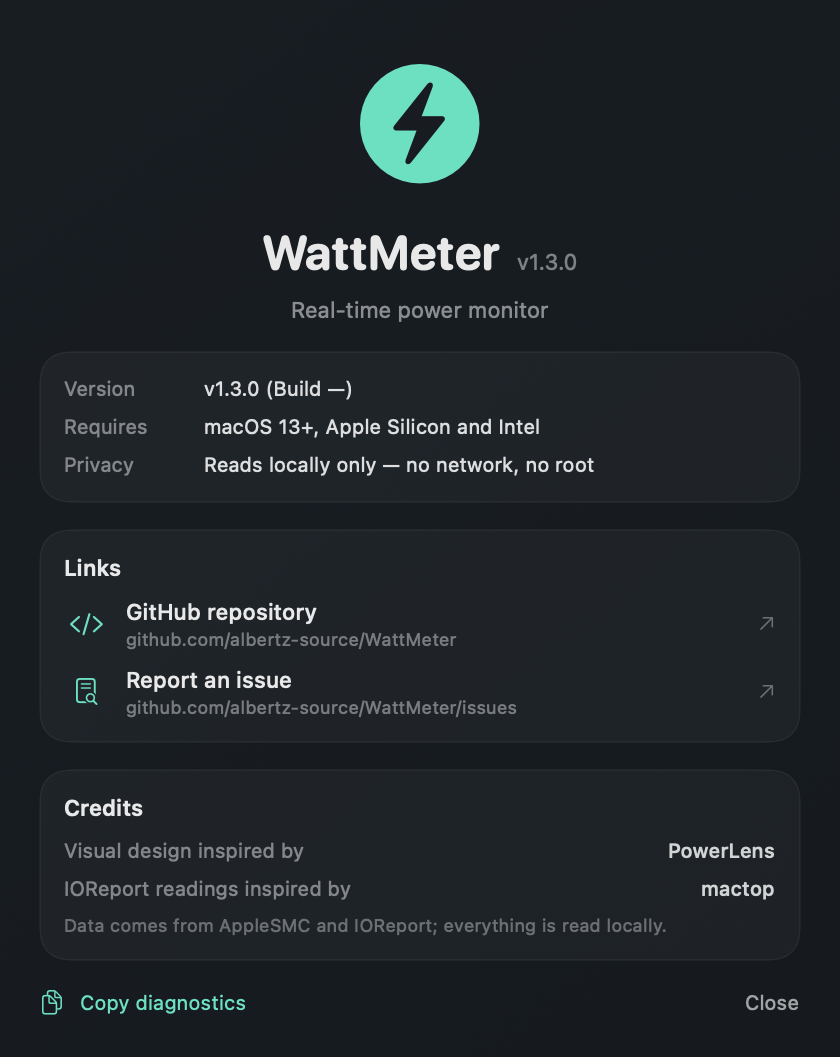
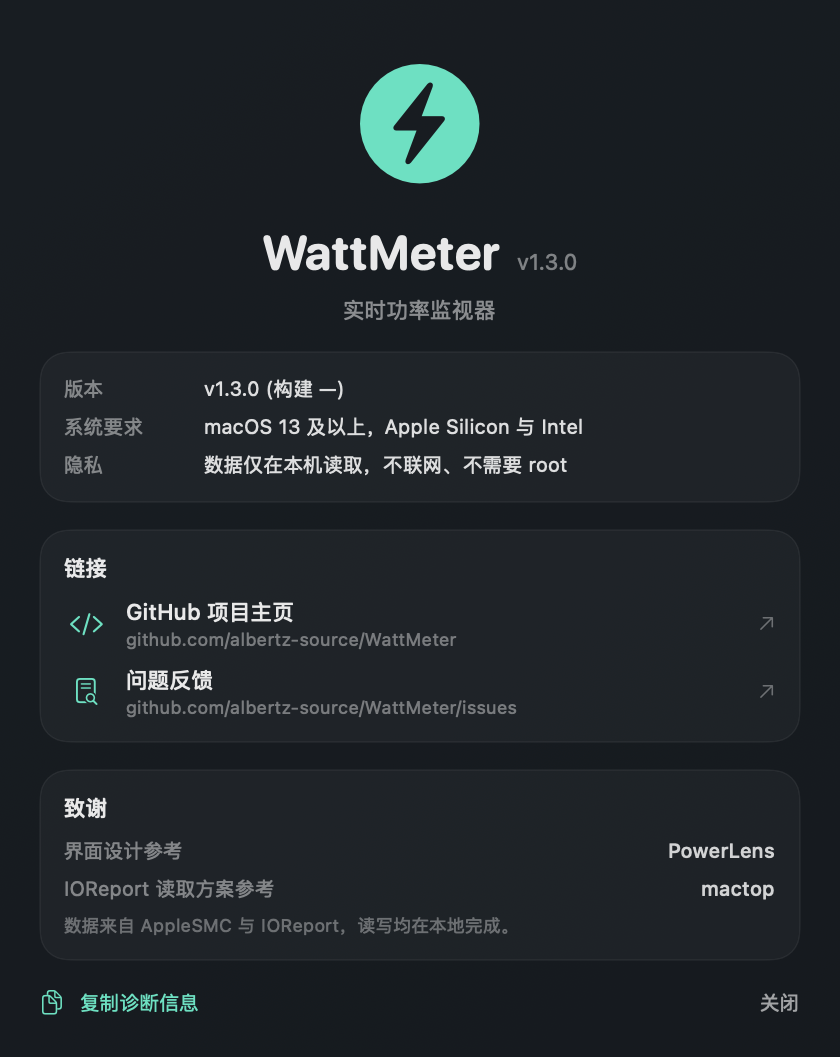
release: 1.3.2
- bump to 1.3.2 (build 8)
- release notes for the line-chart overflow fix
- before/after verification image
- refreshed preview screenshots

diff --git a/docs/release-notes-1.3.2.md b/docs/release-notes-1.3.2.md
@@ -1,0 +1,68 @@
+# WattMeter 1.3.2
+
+A native macOS menu-bar power monitor: live system power, adapter vs battery split, CPU / GPU /
+ANE / DRAM power, temperatures, fan speed, and a Sankey-style power-flow diagram.
+
+## Fixed
+
+### 整机功耗 / 电池净功率 line chart no longer draws outside its frame
+
+The Y-axis domain of the **System power / Battery net power** line chart was derived from system
+power only. A battery charging at a higher wattage than the system was drawing (for example 96 W of
+charge power on a 20 W system load) was therefore plotted above the top of the plot area and spilled
+out of the chart frame.
+
+The domain now spans **both** series (including negative battery values), so the chart always scales
+to fit the battery line as well, and the plot area is clipped to its bounds as a safety net.
+
+![before and after](https://raw.githubusercontent.com/albertz-source/WattMeter/main/docs/fix-battery-line-overflow.png)
+
+The image above renders one dataset (system 15–21 W, battery net power −16.8 W … +96 W) through both
+versions: the old chart jumps out of the red frame, the new one stays inside.
+
+## Also included since 1.2.2
+
+- **About window** (ⓘ in the panel / main window / right-click menu): version and build, system
+  requirements, privacy note, project links, credits, and a **Copy diagnostics** button.
+- **Flow diagram**: CPU / GPU / ANE / DRAM branches, hidden when a reading is unavailable; all links
+  converge into a single hub on each side of the machine node; the adapter shows input voltage and
+  current; the battery port is always visible.
+- **Chip power** from IOReport (`Energy Model` merged with `GPU Stats` / `CPU Stats` / `AMC Stats`),
+  with a PMP histogram fallback for the macOS 27 CPU gate and an SMC `PZD*` fallback for DRAM.
+- Fan speed on M3 / M4 Macs, including a “stopped” state at 0 rpm.
+- Launch at login, English-primary UI with Chinese available.
+
+## Requirements
+
+- **macOS 13 or later** (macOS 13 / 14 / 15 and newer)
+- **Apple Silicon (M-series) or Intel Mac** — universal binary (`arm64` + `x86_64`)
+- No root, no kernel extension, no network access; the app only reads IOKit / SMC
+
+## Install
+
+1. Download **WattMeter-1.3.2.dmg** and open it.
+2. Drag **WattMeter.app** into Applications, eject.
+3. First launch: right-click → Open (ad-hoc signed), or
+   `xattr -dr com.apple.quarantine /Applications/WattMeter.app`
+
+## 简体中文
+
+### 修复：整机功耗 / 电池净功率折线画出框外
+
+折线图的 Y 轴范围之前只按「整机功耗」计算，所以当电池净功率（充电时为正）高于整机功耗时，
+例如整机 20 W、电池充电 96 W，电池那条线会超出绘图区、画到图表框外面。
+
+现在 Y 轴范围同时覆盖两条曲线（含电池的负值），并且绘图区做了裁剪兜底，任何情况下都不会
+画出框外。上图用同一组数据（整机 15–21 W，电池 −16.8 W … +96 W）对比了旧版和新版：旧版
+虚线冲出红框，新版完整留在框内。
+
+### 同时包含 1.2.2 以来的全部更新
+
+- **关于窗口**：标题栏 ⓘ / 主窗口 ⓘ / 右键菜单打开，显示版本与构建、系统要求、隐私说明、
+  项目链接、致谢，并提供「复制诊断信息」按钮。
+- **流向图**：CPU / GPU / ANE / DRAM 分项（无数据自动隐藏）；左右两侧所有连线收敛到单一枢纽点；
+  适配器节点显示输入电压与电流；电池端口常驻。
+- **分项功率**：IOReport（`Energy Model` + `GPU Stats` / `CPU Stats` / `AMC Stats`），
+  macOS 27 的 CPU 门控有 PMP 直方图兜底，DRAM 可回退 SMC `PZD*`。
+- M3 / M4 机型的风扇转速（含 0 rpm「已停转」状态）。
+- 登录时启动；界面以英文为主，可切换中文。
